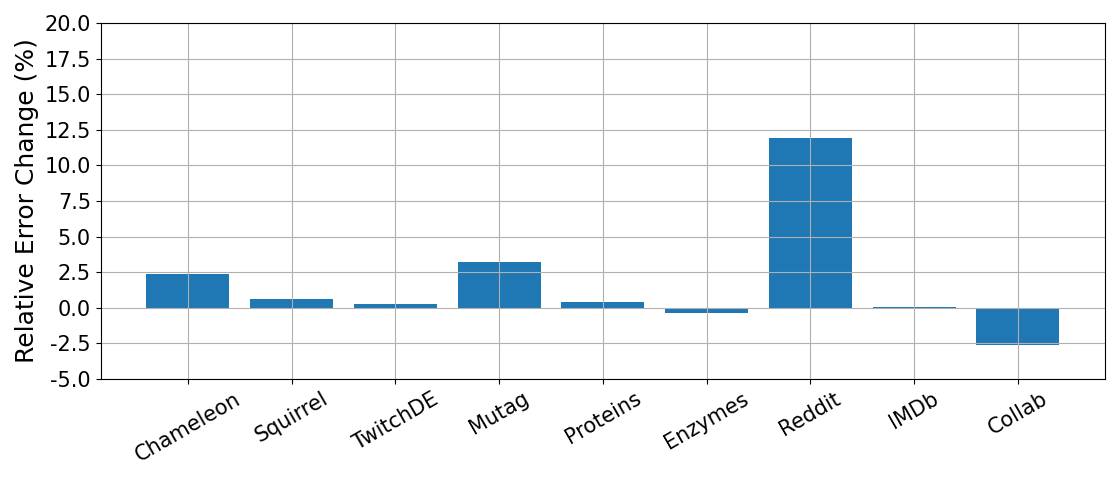
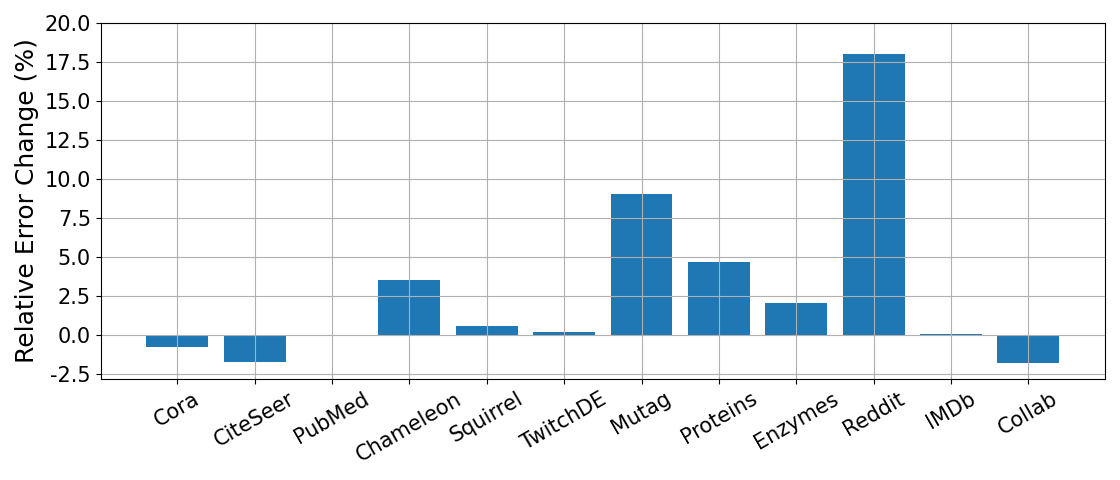
add de vs ds plot

diff --git a/plots/metrics/drop_sens.py b/plots/metrics/drop_sens.py
@@ -5,10 +5,10 @@ import matplotlib.pyplot as plt
 from utils.parse_logs import parse_metrics
 
 
-datasets = ('Cora', 'CiteSeer', 'PubMed', 'Chameleon', 'Squirrel', 'TwitchDE', 'Actor',) + \
+datasets = ('Cora', 'CiteSeer', 'PubMed', 'Chameleon', 'Squirrel', 'TwitchDE',) + \
     ('Mutag', 'Proteins', 'Enzymes', 'Reddit', 'IMDb', 'Collab',)
-gnn = 'GIN'
-baseline = 'DropSens'
+gnn = 'GCN'
+baseline = 'DropEdge'
 dropouts = ('DropSens',)
 
 metric = 'Accuracy'
@@ -30,7 +30,7 @@ def get_samples(dataset, gnn, dropout, drop_p, info_save_ratio=None):
     for timestamp in os.listdir(exp_dir_format):
         train, val, test = parse_metrics(f'{exp_dir_format}/{timestamp}/logs')
         if len(test.get(metric, [])) < 300:
-            # print(f'Incomplete training run: {exp_dir_format}/{timestamp}')
+            print(f'Incomplete training run: {exp_dir_format}/{timestamp}')
             continue
         sample = test[metric][np.argmax(val[metric])]
         samples.append(sample)
@@ -63,7 +63,7 @@ def get_best(dataset, gnn, dropout):
     assert len(best_samples) >= 50, f'Found only {len(best_samples)} samples ' \
         f'for the best performing configuration: {best_exp_dir_format}.'
     if len(best_samples) > 50:
-        pass    # print(f'Found {len(best_samples)} samples for {best_exp_dir_format}.')
+        print(f'Found {len(best_samples)} samples for {best_exp_dir_format}.')
     return best_samples
 
 
@@ -80,15 +80,15 @@ for dataset in tqdm(datasets):
 for dropout, displacement in zip(dropouts, displacements):
     heights = list()
     for dataset in tqdm(datasets):
+        baseline_mean = np.mean(baseline_samples[dataset])
         best_samples = get_best(dataset, gnn, dropout)
         best_mean, best_std = np.mean(best_samples), np.std(best_samples, ddof=1)
-        baseline_mean = np.mean(baseline_samples[dataset])
         heights.append(100*(best_mean-baseline_mean)/(1-baseline_mean))
     ax.bar(x=xs_de+displacement, height=heights, width=width, label=dropout)
 
 ax.set_xticks(xs_de, datasets, rotation=30, fontsize=15)
-# yticks = np.arange(-5.0, 22.5, 2.5)
-# ax.set_yticks(yticks, yticks, fontsize=15)
+yticks = np.arange(-2.5, 22.5, 2.5)
+ax.set_yticks(yticks, yticks, fontsize=15)
 ax.set_ylabel('Relative Error Change (%)', fontsize=18)
 ax.grid()
 if len(dropouts) > 1:
